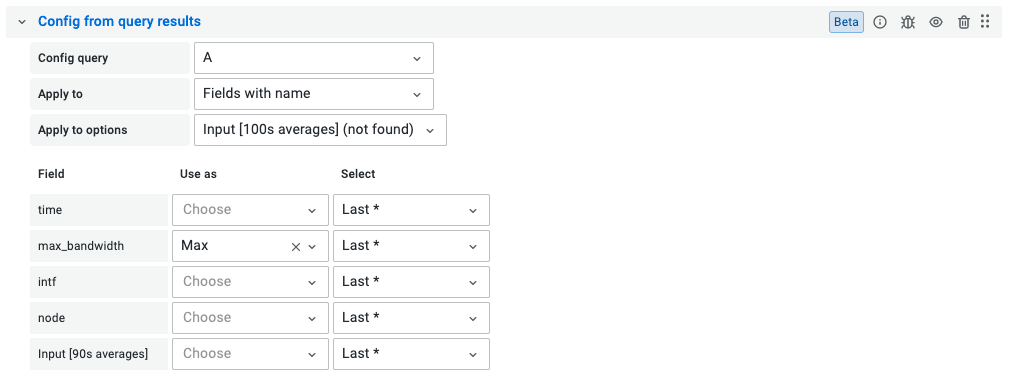
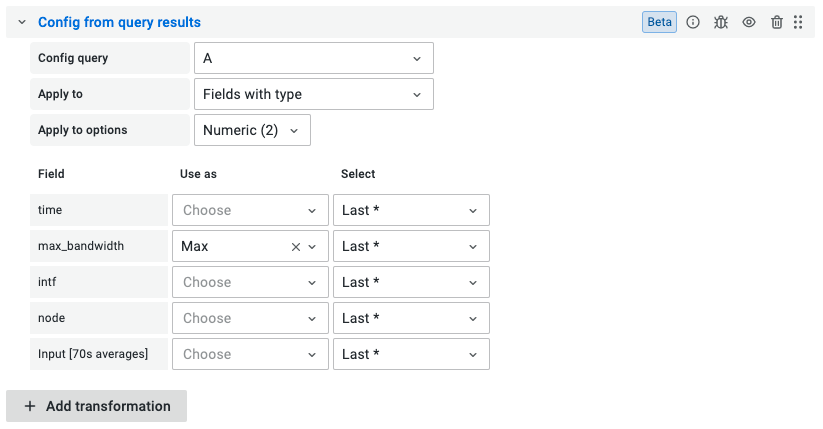
Updated Info and Screenshots

diff --git a/examples.md b/examples.md
@@ -32,9 +32,9 @@ Select the following fields:
 <p align="center"><img src="{{ "/assets/img/config-query-results.png" | relative_url }}"/></p>
 
 - **Config query**: `A` - This is the name of the query you created in Step 1.
-- **Apply To**: `Fields with name` - Select the best option that will help you apply the transformation to the values in your query. Since this example only has one `input` field, we can target it by directly selecting its name.
-- **Apply to options**: `Input*` - Based on the option selected in the previous step, the options will show which fields are available to apply the transformation to. In this case, we can target the `input` field by directly selecting its name.
--- **max_bandwidth** - 'Use as: Max' - 'Select: Last*' - This will select the latest value `max_bandwidth` field as the maximum value of the `input` field. 
+- **Apply To**: `Fields with type` - Select the best option that will help you apply the transformation to the values in your query. We can apply the max threshold to fields of a certain type. 
+- **Apply to options**: `Numeric` - Based on the option selected in the previous step, the dropdown will show different field types like Numeric, string, time present in our query data. Since `input` values are of Numeric type we will select that option.
+- **max_bandwidth** - *Use as: Max* - *Select: Last* - This will select the latest value from the `max_bandwidth` field as the maximum value of the `input` field. 
 
 We also need to add another transform to hide the max_bandwidth field now. In order to do this, click on `Add transformation` and select `Organize fields`.
 
